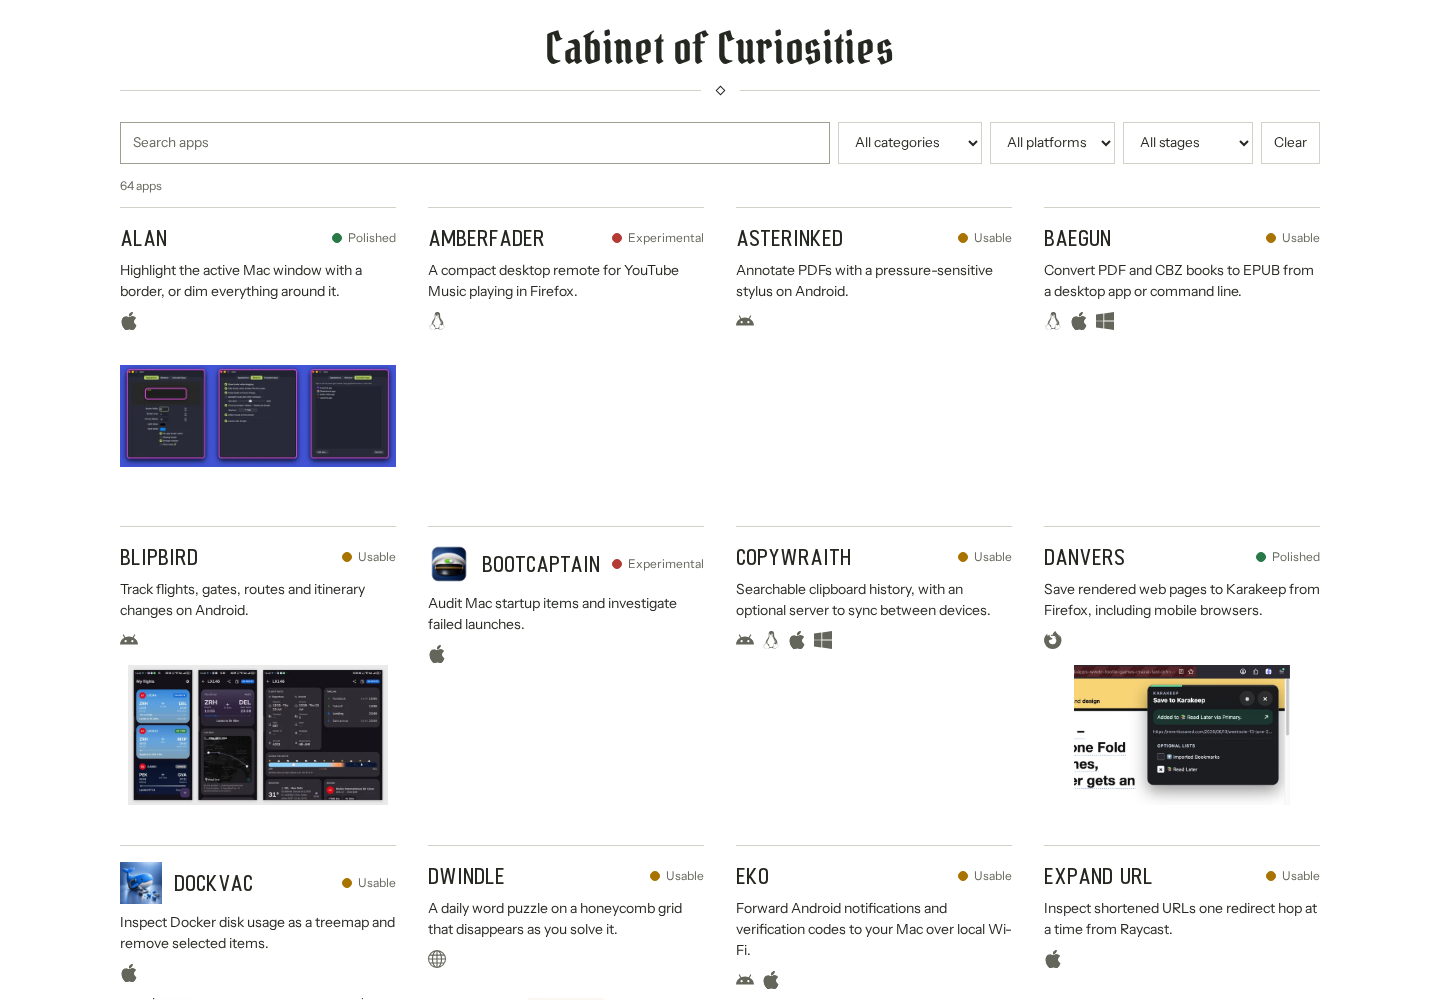
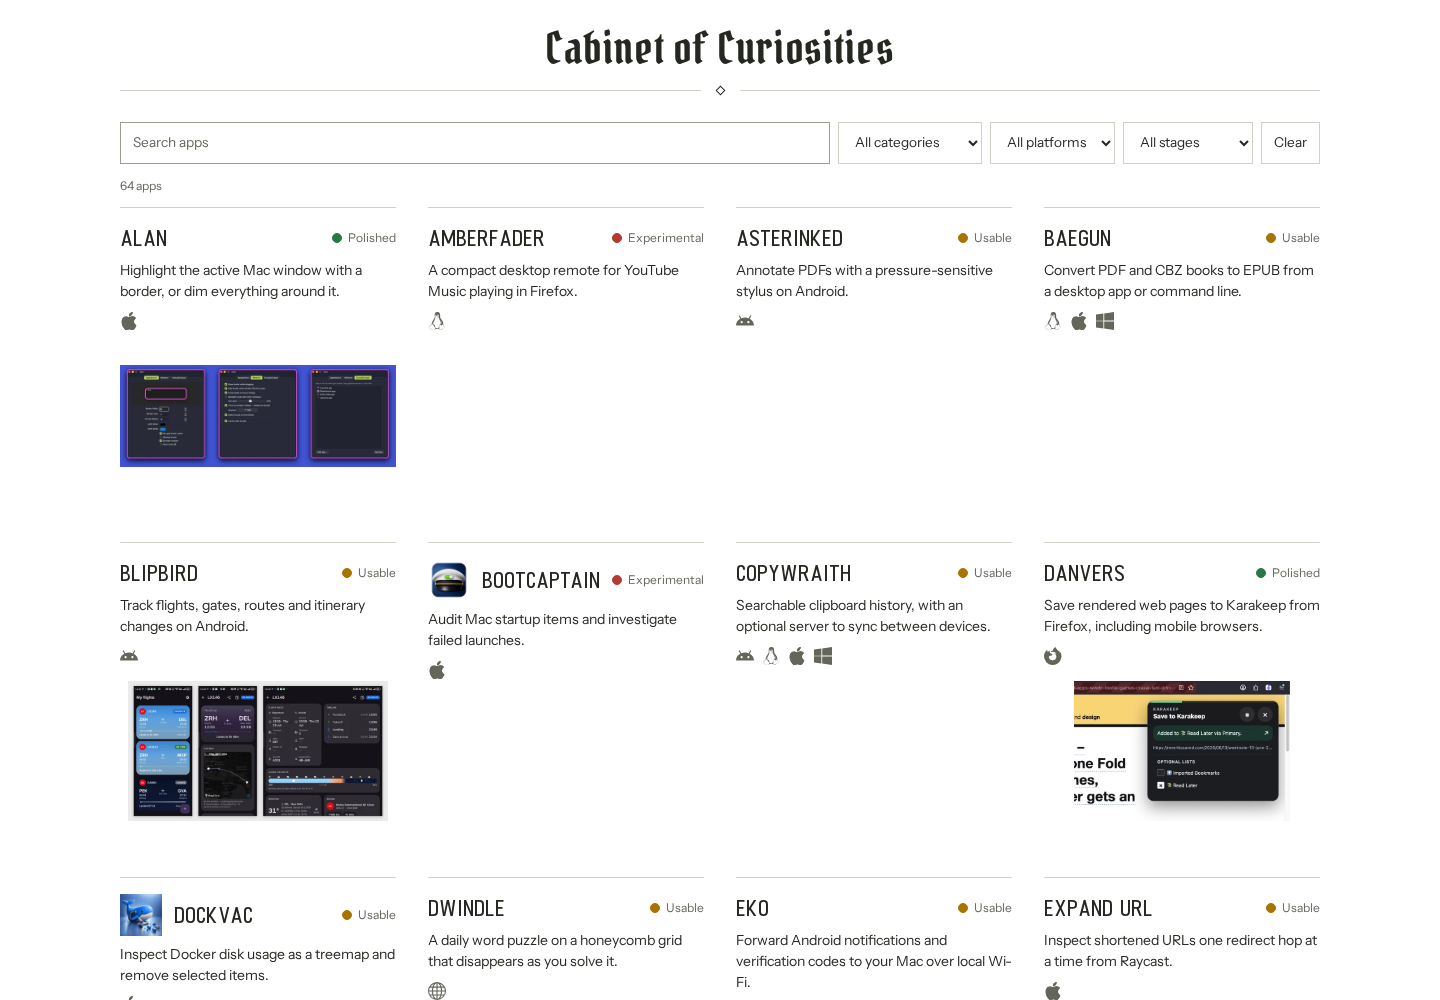
Increase spacing between app entries (#21)
Give app rows more breathing room with a 2.5rem gap.
Refresh the directory preview to match the updated layout.

Changed region(s): [[0.0625, 0.527, 0.9062, 1.0], [0.7188, 0.527, 0.9062, 0.837]]

diff --git a/public/style.css b/public/style.css
@@ -72,7 +72,7 @@ img { display: block; max-width: 100%; }
 .filters input::placeholder { color: var(--muted); }
 .filters select { max-width: 100%; }
 .result-count { color: var(--muted); font-size: 0.75rem; margin-block: 0.75rem; }
-.app-grid { display: grid; grid-template-columns: repeat(auto-fill, minmax(min(260px, 100%), 1fr)); gap: 1.5rem 2rem; padding: 0; margin: 0; list-style: none; }
+.app-grid { display: grid; grid-template-columns: repeat(auto-fill, minmax(min(260px, 100%), 1fr)); gap: 2.5rem 2rem; padding: 0; margin: 0; list-style: none; }
 .app-card { display: flex; flex-direction: column; gap: 0.5rem; min-width: 0; padding-block: 1rem; border-top: 1px solid var(--rule); }
 .card-heading { display: flex; gap: 0.75rem; align-items: center; }
 .card-heading h2 { flex: 1; min-width: 0; font-size: 1.4rem; line-height: 1.25; overflow-wrap: anywhere; }

diff --git a/CHANGELOG.md b/CHANGELOG.md
@@ -2,6 +2,8 @@
 
 ## Unreleased
 
+- Increase vertical spacing between app entries.
+
 - Add red/amber/green traffic-light dots beside maturity labels on cards and detail pages.
 
 - Replace platform names on cards and detail pages with accessible, self-hosted SVG icons.
